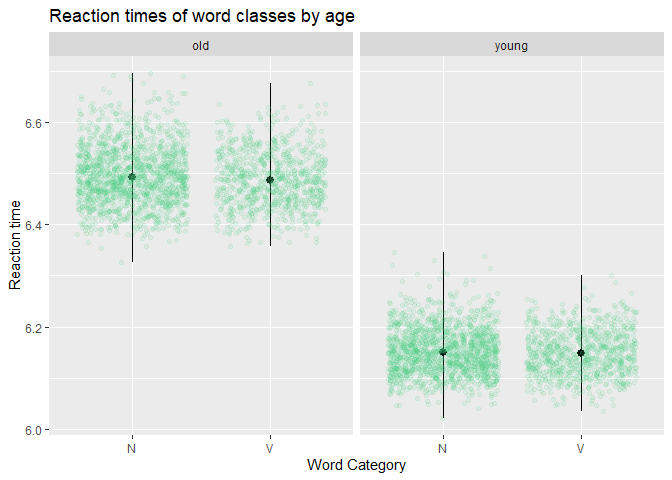
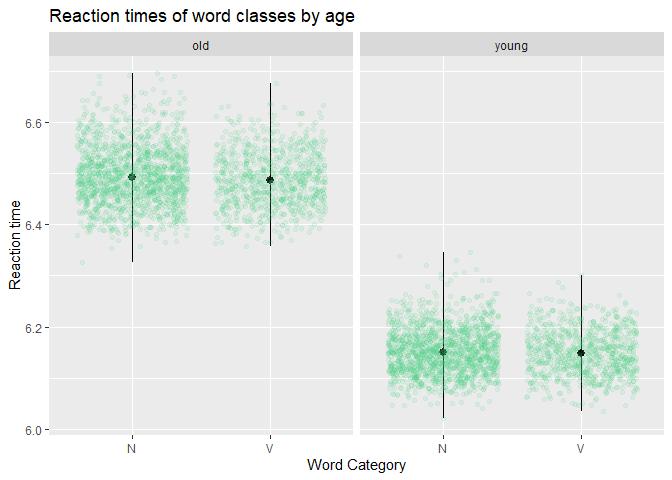
fixplots

diff --git a/misc/students/parrish_kyle/PA2/README.md b/misc/students/parrish_kyle/PA2/README.md
@@ -1,7 +1,7 @@
 Programming assignment 2
 ================
 Kyle Parrish
-Last update: 2021-02-10
+Last update: 2021-02-11
 
 ``` r
 # Load libraries 
@@ -38,3 +38,19 @@ ggplot(data = beginningReaders, aes(x = LogRT, y = ReadingScore, color = OrthLen
     ## `geom_smooth()` using formula 'y ~ x'
 
 ![](README_files/figure-gfm/unnamed-chunk-2-1.png)<!-- -->
+
+``` r
+#boxplot
+
+ggplot(data = danish, aes(x = Sex, y = LogRT, fill = Affix)) + geom_boxplot() + xlab("Gender") + ylab("Reaction time") + ggtitle("A box plot by sex of the distribution of RT and per Danish affix")
+```
+
+![](README_files/figure-gfm/unnamed-chunk-2-2.png)<!-- -->
+
+``` r
+#plot with stat summary and facet
+
+ggplot(data = english) + stat_summary(mapping = aes(x = WordCategory, y = RTnaming), fun.min = min, fun.max = max, fun = median) + geom_jitter(data = english, aes(x = WordCategory, y = RTnaming), alpha = .1, color = "seagreen3") + facet_wrap(~ AgeSubject, nrow = 1)  + xlab("Word Category") + ylab("Reaction time") + ggtitle("Reaction times of word classes by age")
+```
+
+![](README_files/figure-gfm/unnamed-chunk-2-3.png)<!-- -->
